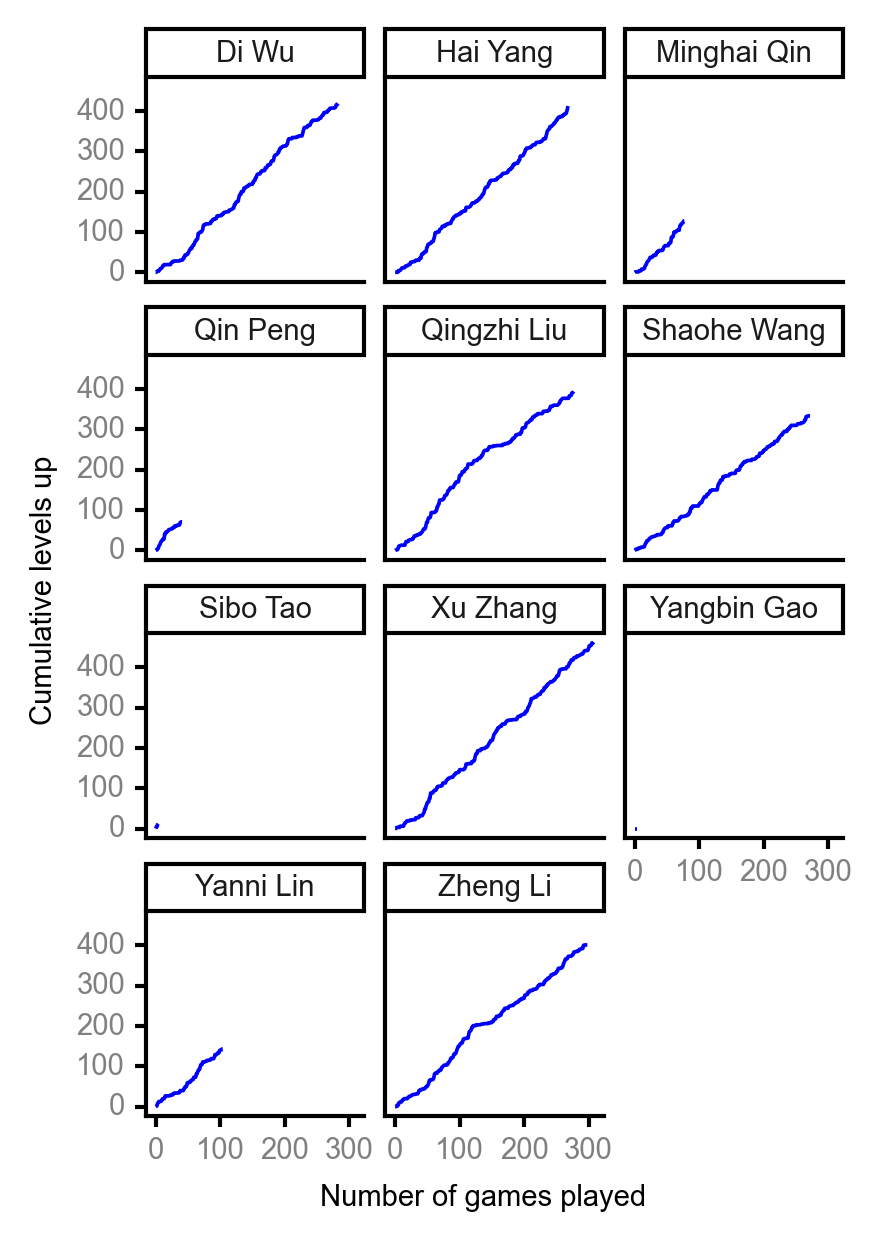
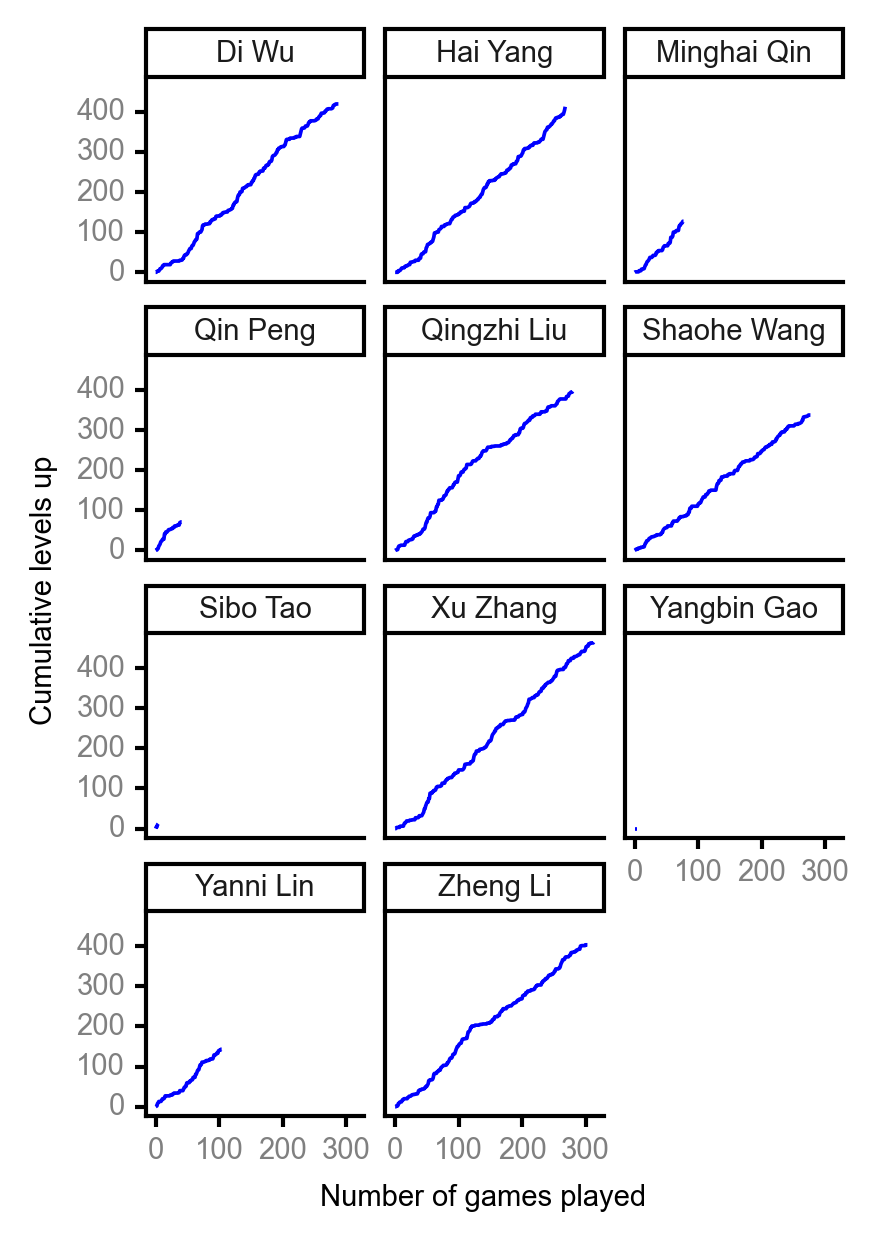
update player stats

diff --git a/player_stats.md b/player_stats.md
@@ -3,7 +3,7 @@ layout: player_stats
 title: Player Statistics
 author: Shaohe Wang
 author_url: https://scholar.google.com/citations?user=R_-kJV4AAAAJ&hl=en
-date: 2021-06-26
+date: 2021-07-10
 ---
 
 #### [Spreadsheet](https://docs.google.com/spreadsheets/d/1So3PBr9gV3I0LzApZOgJlQew2QjM1wAiWhR50rAnHRg/edit#gid=2137801449)
@@ -14,12 +14,12 @@ date: 2021-06-26
 
 | <br><br><br>Rank | <br><br><br>Player | <br> Lifetime <br> levels <br> up | <br><br> Winning <br> rate | <br> Average <br> levels <br> up | <br> Total <br> games <br> played | Games <br> played <br> as <br> MVP | Games <br> played <br> as <br> dealer | N_games <br> short <br> staffed <br> as dealer | Winning <br> rate <br> as <br> dealer |
 |:---:|:---:|:---:|:---:|:---:|:---:|:---:|:---:|:---:|:---:|
-| 1 | Xu <br> Zhang | 462 | 54.4% | 2.75 | 309 | 20 | 59 | 2 | 47.5% |
-| 2 | Di <br> Wu | 419 | 49.3% | 2.99 | 284 | 33 | 47 | 0 | 51.1% |
+| 1 | Xu <br> Zhang | 464 | 54.1% | 2.73 | 314 | 20 | 60 | 2 | 48.3% |
+| 2 | Di <br> Wu | 420 | 49.1% | 2.96 | 289 | 34 | 48 | 0 | 50.0% |
 | 3 | Hai <br> Yang | 413 | 52.4% | 2.93 | 269 | 25 | 50 | 1 | 54.0% |
-| 4 | Zheng <br> Li | 401 | 52.5% | 2.55 | 299 | 15 | 47 | 1 | 55.3% |
-| 5 | Qingzhi <br> Liu | 394 | 50.0% | 2.83 | 278 | 15 | 50 | 4 | 46.0% |
-| 6 | Shaohe <br> Wang | 335 | 45.4% | 2.70 | 273 | 14 | 43 | 3 | 44.2% |
+| 4 | Zheng <br> Li | 404 | 52.6% | 2.52 | 304 | 15 | 48 | 1 | 54.2% |
+| 5 | Qingzhi <br> Liu | 396 | 50.2% | 2.81 | 281 | 16 | 51 | 4 | 45.1% |
+| 6 | Shaohe <br> Wang | 338 | 45.7% | 2.66 | 278 | 14 | 44 | 3 | 43.2% |
 | 7 | Yanni <br> Lin | 144 | 47.6% | 2.88 | 105 | 10 | 11 | 2 | 36.4% |
 | 8 | Minghai <br> Qin | 127 | 52.6% | 3.10 | 78 | 1 | 11 | 1 | 72.7% |
 | 9 | Qin <br> Peng | 72 | 59.5% | 2.88 | 42 | 4 | 4 | 0 | 75.0% |
